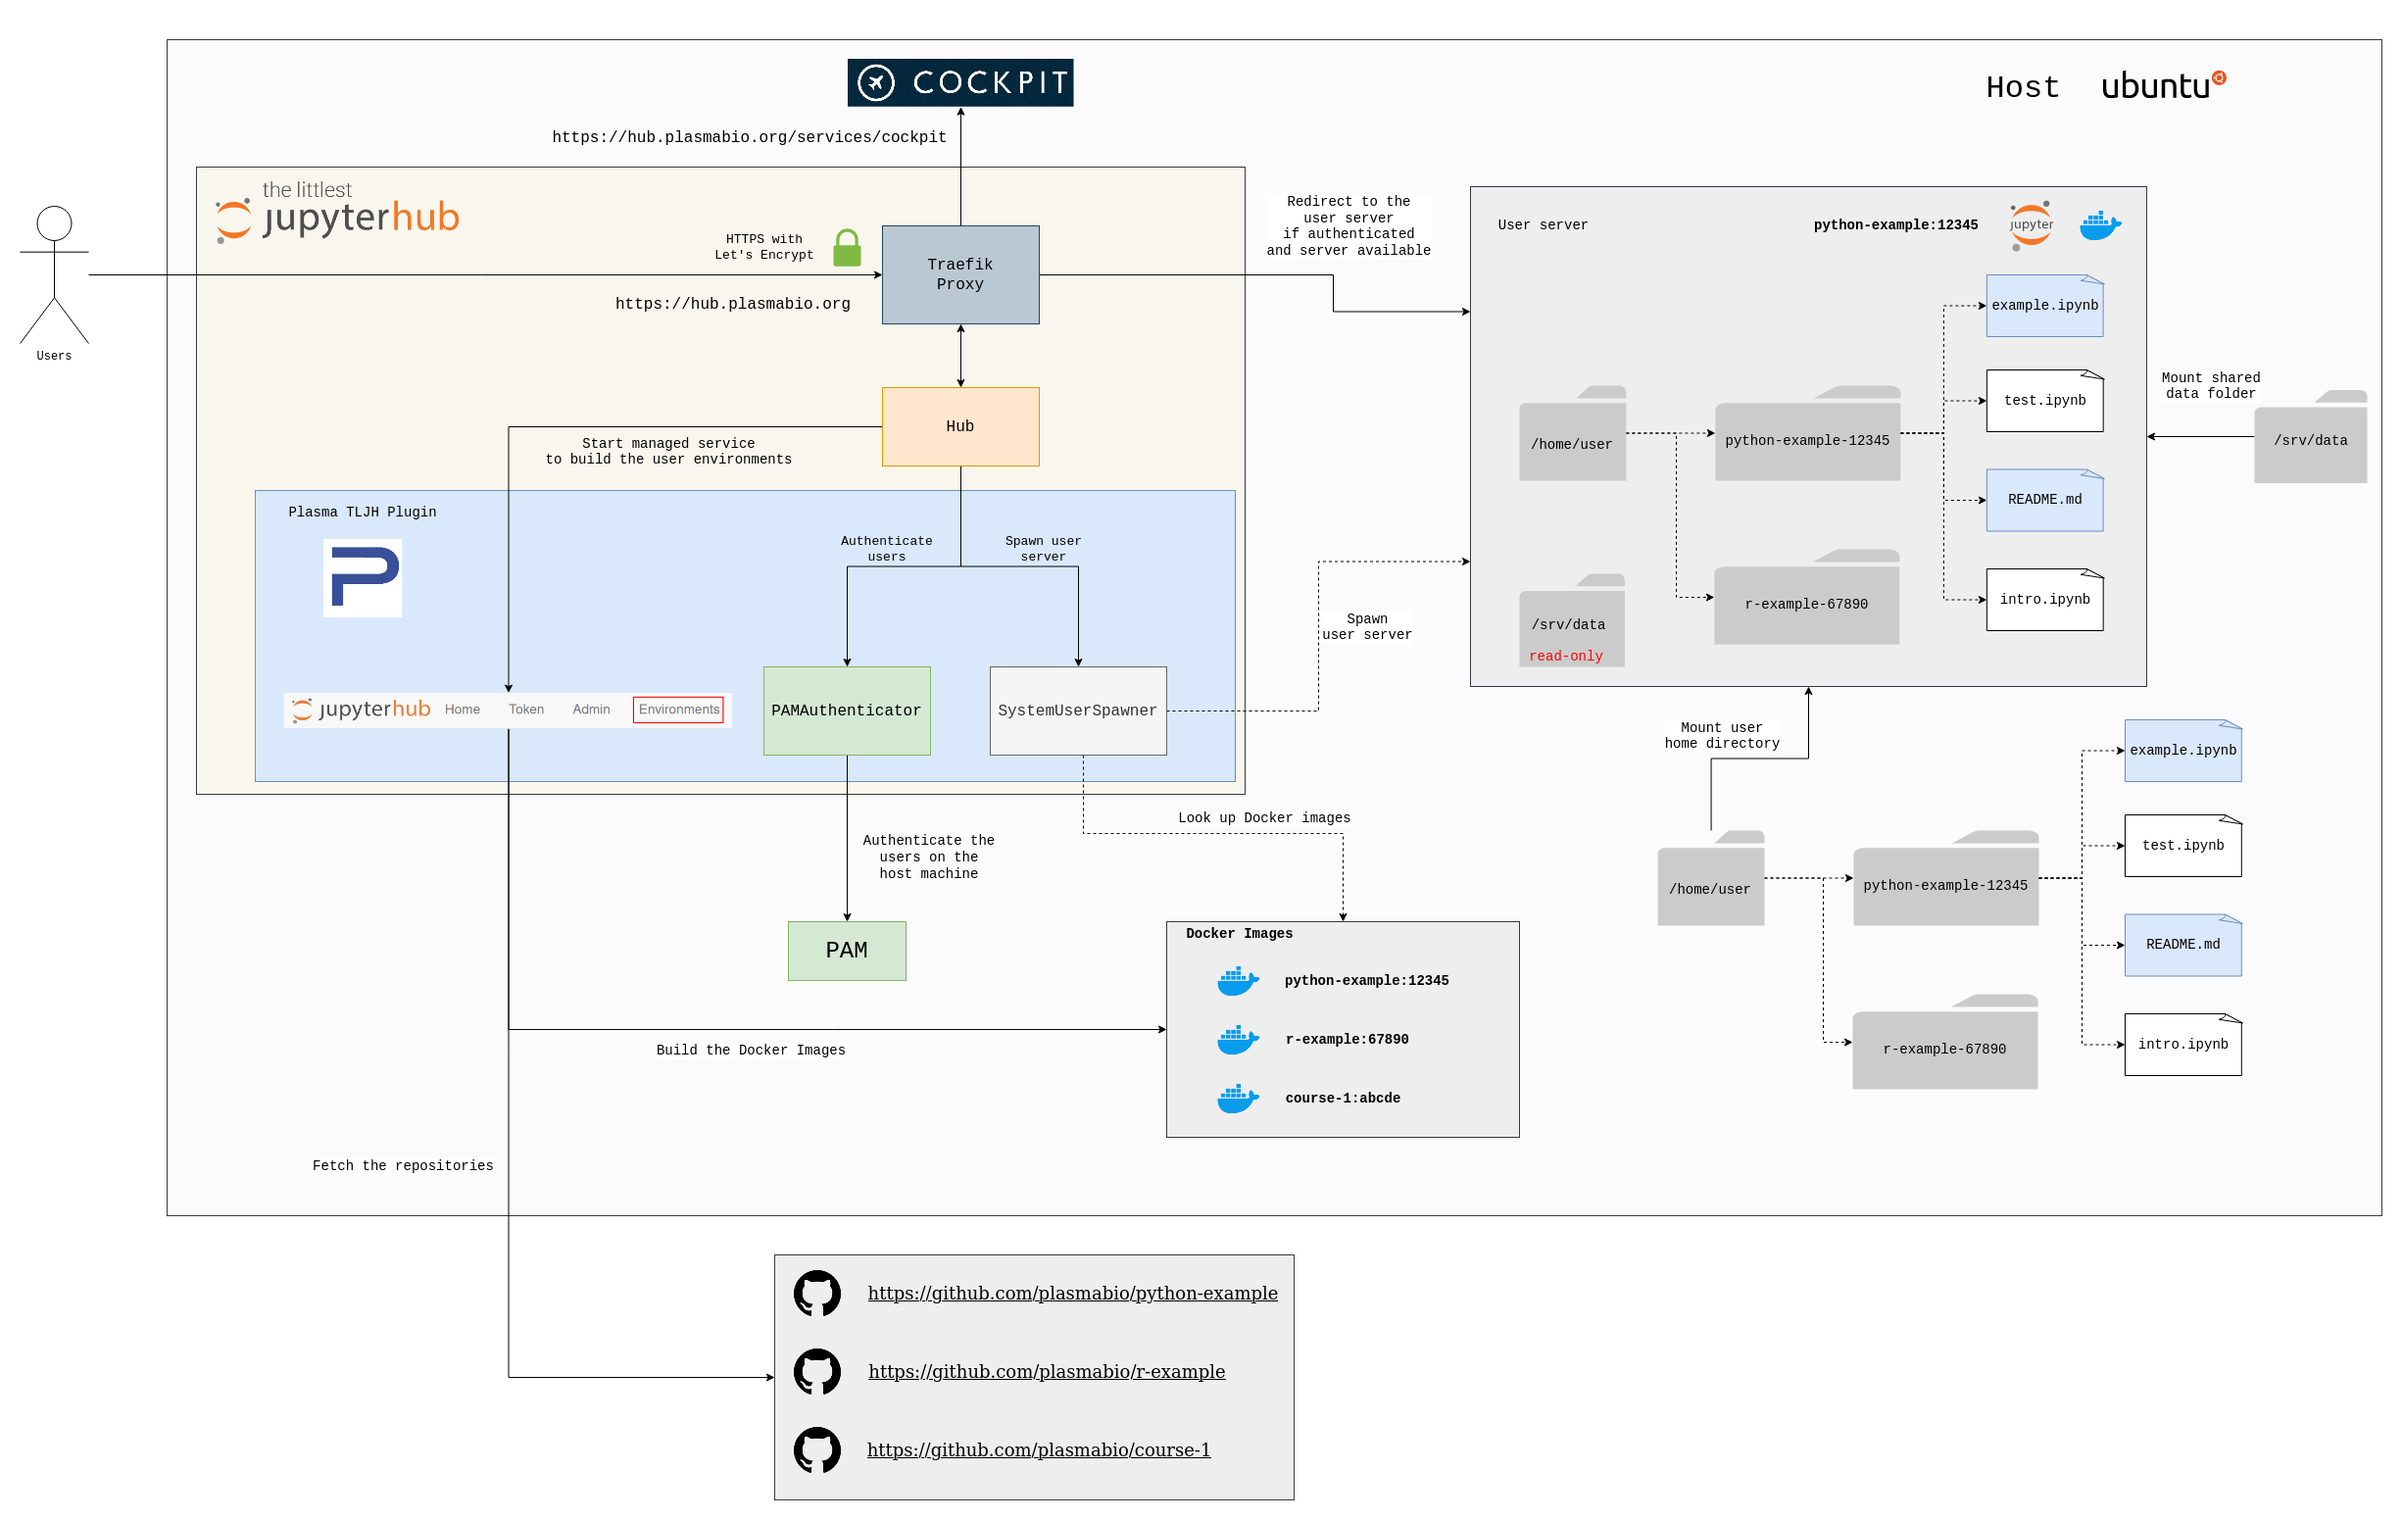
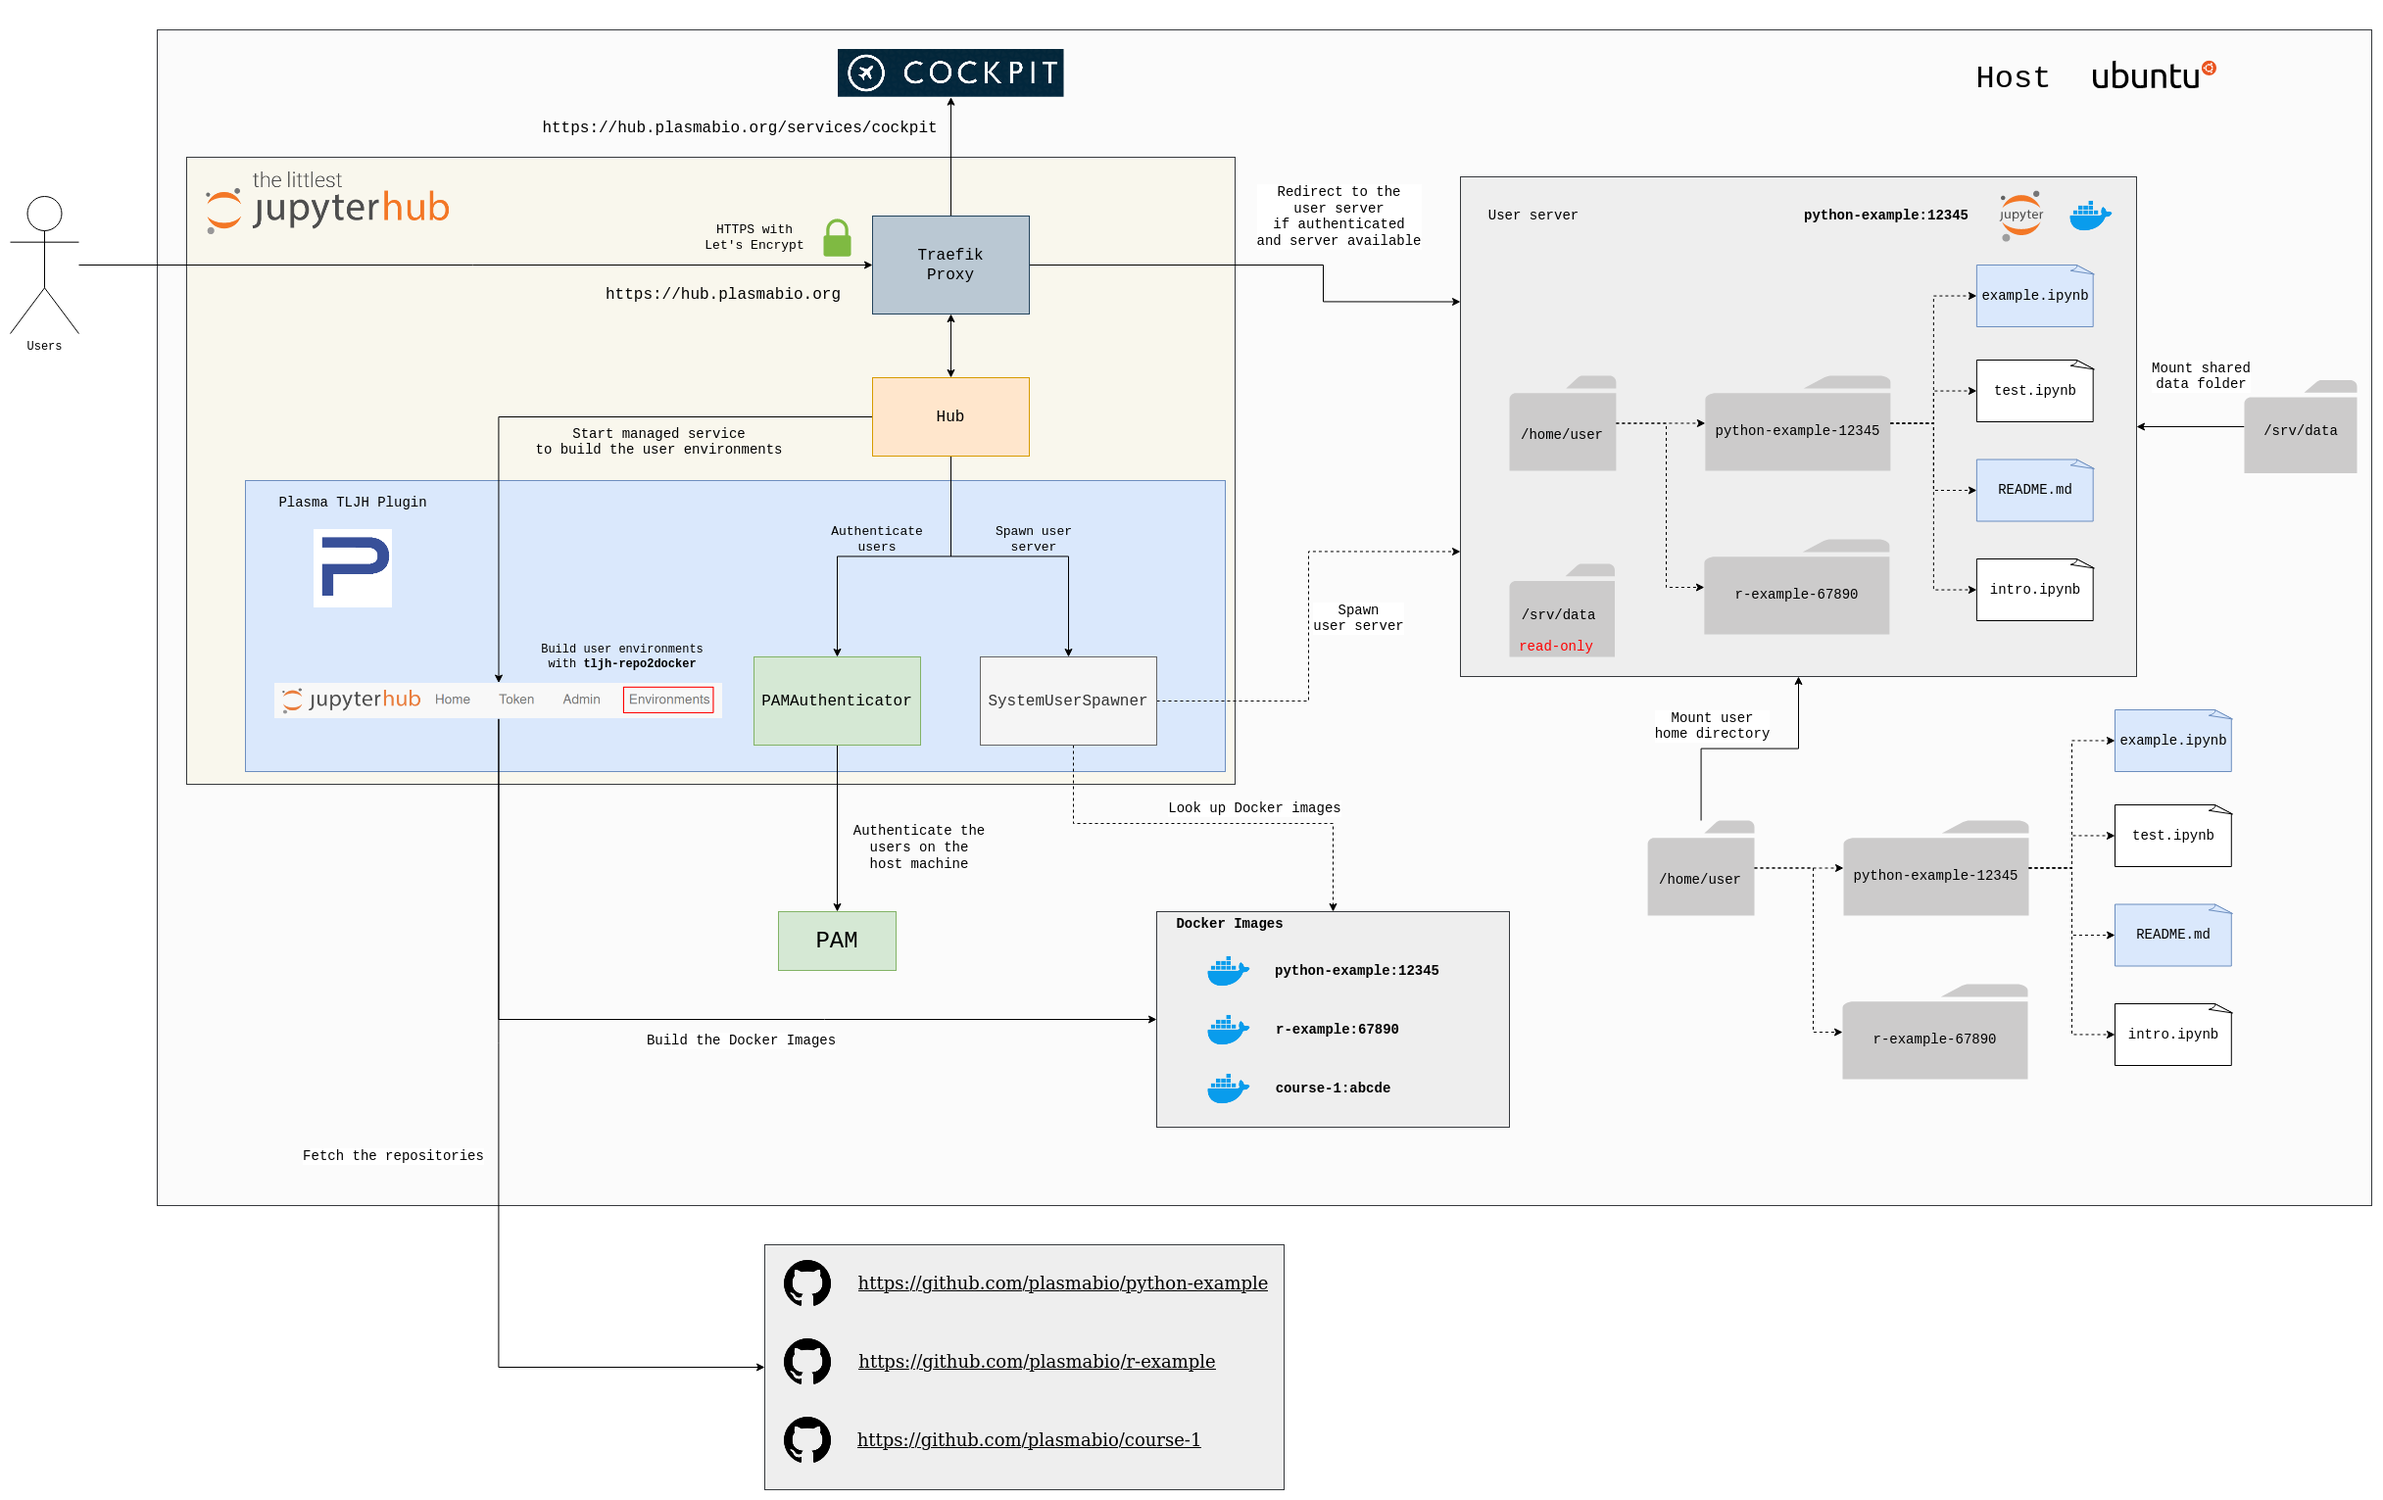
Add tljh-repo2docker to overview in the docs

diff --git a/docs/overview/index.rst b/docs/overview/index.rst
@@ -15,7 +15,8 @@ The project provides:
 Plasma can be seen as an **opinionated TLJH distribution**:
 
 - It gives admin users the possibility to configure multiple user environments backed by Docker images
-- It provides an interface to build the user environments, accessible from the JupyterHub panel
+- It provides an interface to build the user environments, accessible from the JupyterHub panel, using
+  `tljh-repo2docker <https://github.com/plasmabio/tljh-repo2docker>`_
 - It uses PAM as the authenticator, and relies on system users for data persistence (home directories) and authentication
 - It provides additional Ansible Playbooks to provision the server with extra monitoring tools
 
